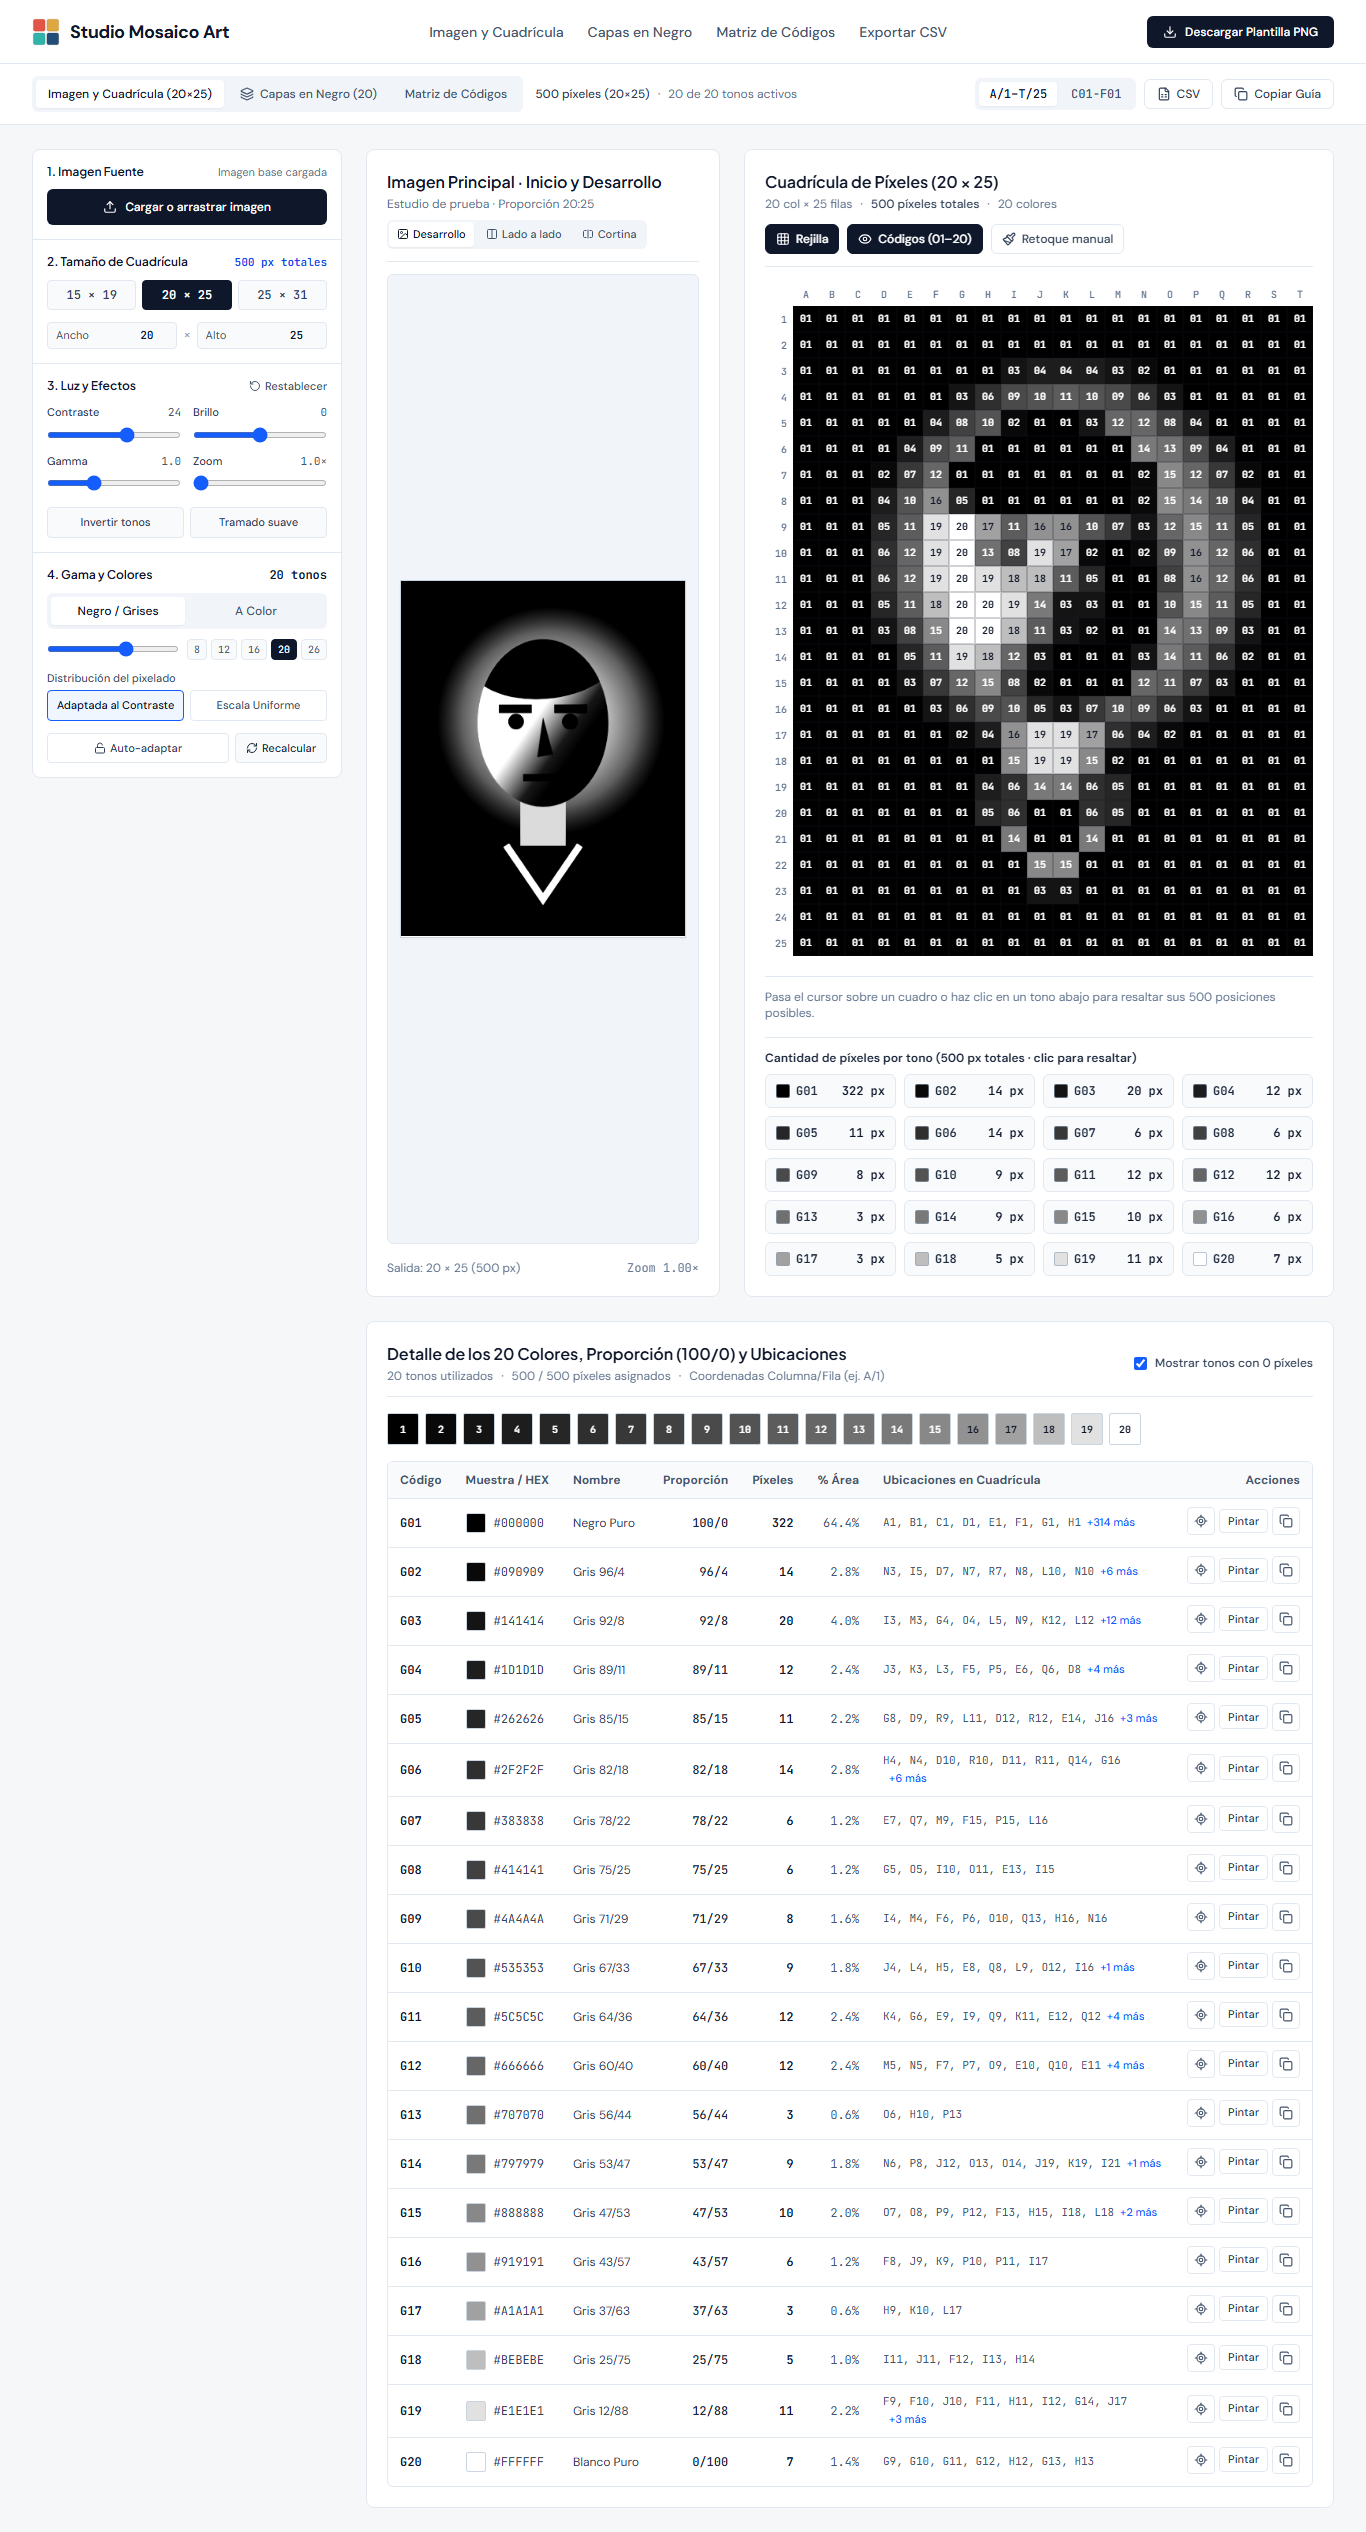
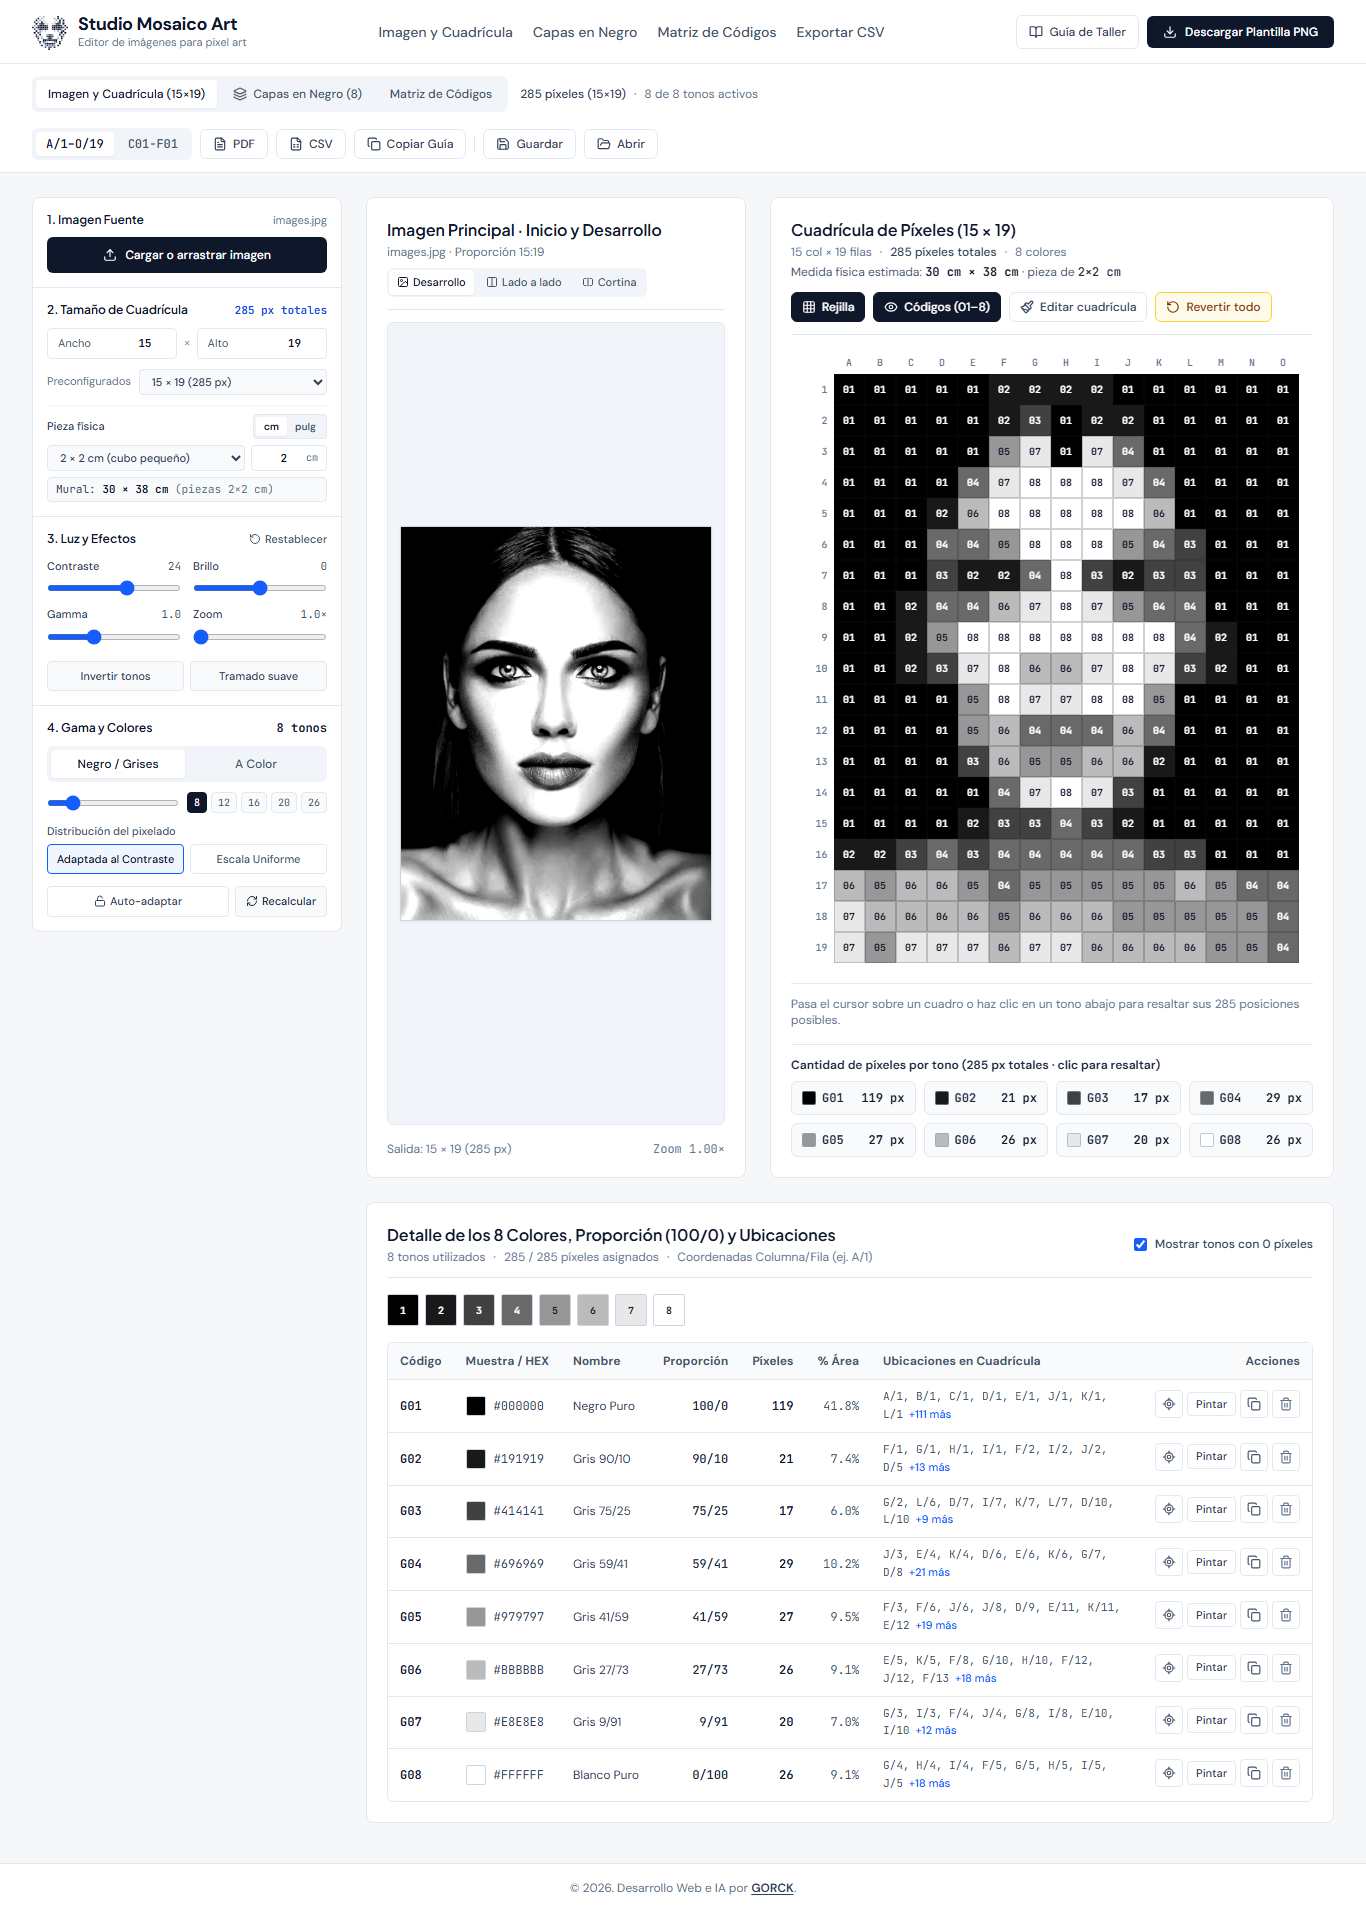
docs: update project description and links in README
Refine the project description to highlight its use as a professional workshop tool for physical pixel art and update the live demo URL.

diff --git a/README.md b/README.md
@@ -1,32 +1,62 @@
 # 🎨 Studio Mosaico Art
 
-**Conversor de imágenes a cuadrículas de píxeles con coordenadas, conteo de piezas y proporciones de tono para murales físicos, carpintería artística, mosaicos y bricolaje.**
+**Editor de imágenes para pixel art físico: convierte cualquier fotografía o ilustración en una plantilla con cuadrícula, coordenadas exactas, conteo de piezas y proporciones de mezcla para murales de madera, mosaicos, Hama/Perler beads y bricolaje.**
 
-🔗 **[Probar la aplicación en vivo aquí](https://github.io)**
+🔗 **[Probar la aplicación en vivo aquí](https://gorck1973.github.io/Studio-Mosaico-Art/)**
 
 ![Vista previa de Studio Mosaico Art](public/preview.png)
 
 ## ✨ ¿Para qué sirve?
-A diferencia de los editores de pixel art tradicionales diseñados solo para pantallas, **Studio Mosaico Art** está pensado para llevar diseños digitales al mundo físico (como murales hechos con cubos de madera de 5×5 cm, mosaicos cerámicos o tejidos).
+A diferencia de los editores de pixel art pensados solo para pantalla, **Studio Mosaico Art** está diseñado como herramienta de taller para llevar diseños digitales al mundo real (murales con cubos de madera, mosaicos cerámicos, teselas, crochet o pixel art con cuentas), entregando medidas físicas reales, cantidades exactas por tono y mapas listos para imprimir.
 
 ## 🛠 Características principales
-- **Control total de resolución:** Define el tamaño exacto de tu cuadrícula (columnas × filas) y calcula las dimensiones físicas finales de tu obra.
-- **Paleta personalizable (Escala de grises y Color):** Ajusta la cantidad exacta de tonos, contraste, brillo, gamma y distribución de tonos.
-- **Tabla de taller y mezcla de pintura:** Obtén el código HEX, la proporción de mezcla (ej. blanco/negro), la cantidad exacta de piezas por tono y sus coordenadas específicas (`A1, B2, C3...`).
+
+- **Cuadrícula libre y calculadora física (`cm` / `pulg`):**
+  - Define libremente **Ancho × Alto** (desde `4 × 4` hasta `40 × 50`) o usa tamaños preconfigurados opcionales.
+  - Configura el tamaño de cada bloque físico en **centímetros (`cm`) o pulgadas (`pulg`)** mediante lista rápida o entrada libre; el tamaño final del mural y de cada pieza se muestra siempre en **`cm`** para evitar errores en el taller.
+- **Lectura inteligente en Color y Escala de Grises:**
+  - Detecta automáticamente si la imagen cargada es a color o blanco y negro.
+  - Incluye **Lectura Inteligente (Color Real)** mediante agrupamiento perceptual en espacio **CIE Lab**, además de **Reemplazar Negro**, **Degradado 2 Colores**, **Degradado 3 Colores** y **Colores Puros**.
+  - Ajustes en tiempo real de contraste, brillo, gamma, zoom/encuadre, inversión de tonos y tramado suave.
+  - Comparación visual **Desarrollo**, **Lado a lado** y **Cortina interactiva**.
+- **Editor de cuadrícula integrado y limpieza de paleta:**
+  - Herramientas prácticas sobre la cuadrícula: **Pintar**, **Relleno** (bote de pintura por área), **Cuentagotas**, **Borrar** (al tono de fondo), **Restaurar** celda original, **Deshacer** paso a paso y **Revertir todo**.
+  - Permite agregar colores personalizados, editar tonos existentes, eliminar tonos redundantes y usar **Limpiar sin uso** para quitar en un clic los tonos con `0` píxeles y renumerar la paleta limpia (`01–N`).
+- **Tabla de taller y coordenadas:**
+  - Calcula código de tono, muestra y código `HEX`, proporción de mezcla (ej. `90/10`) o valores `RGB`, cantidad exacta de piezas, `%` de área y coordenadas en formato **`A/1`** o **`C01-F01`**.
 - **Vistas especializadas de ensamblaje:**
-  - **Imagen y Cuadrícula:** Vista general con rejilla, códigos y herramienta de retoque manual píxel a píxel.
-  - **Capas en Negro:** Aísla cada tono para pintar o clasificar bloques por lotes sin errores.
-  - **Matriz de Códigos:** Mapa técnico limpio ideal para imprimir y llevar al taller.
-- **Exportación lista para imprimir:** Descarga la plantilla completa en **PNG** de alta calidad o exporta todos los datos a una hoja de cálculo **CSV**.
+  - **Imagen y Cuadrícula:** Vista principal con rejilla, códigos superpuestos y conteo rápido por tono.
+  - **Capas en Negro:** Aísla cada tono en blanco y negro para pintar o clasificar bloques por lotes sin confusiones.
+  - **Matriz de Códigos:** Mapa técnico limpio ideal para imprimir y consultar durante el armado.
+- **Exportación lista para imprimir y proyectos guardables:**
+  - Exporta a **PDF** multipágina (plantilla visual + tabla de conteos y coordenadas), **PNG** de alta resolución, **CSV** (hoja de cálculo) o copia la guía completa al portapapeles.
+  - Guarda y reabre tu trabajo completo (imagen, ajustes, paleta personalizada y retoques manuales) en archivos **`.mosaico.json`**, con autoguardado automático en el navegador.
 
 ## 🚀 Cómo usarla en tus proyectos físicos
-1. **Sube una imagen** (idealmente con buen contraste o siluetas icónicas).
-2. **Configura la cuadrícula** según la cantidad de bloques o piezas que tengas disponibles.
-3. **Revisa la tabla de tonos** para preparar tus mezclas de pintura y separar la cantidad exacta de cubos por color.
-4. **Descarga la plantilla PNG o CSV** y ensambla tu obra siguiendo las coordenadas fila por fila.
 
-## 💻 Tecnologías utilizadas
-- React + TypeScript
-- Vite
-- Tailwind CSS
-- Procesamiento de imagen en HTML5 Canvas (100% en el navegador, sin subir tus fotos a servidores externos).
+1. **Sube una imagen:** Arrastra o carga tu foto o ilustración (la app detecta automáticamente si es a color o escala de grises).
+2. **Ajusta cuadrícula y medida física:** Indica las columnas/filas según las piezas disponibles y selecciona el tamaño de tu cubo o tesela (`cm` o `pulg`) para conocer la medida final en `cm`.
+3. **Optimiza luz, gama y edita detalles:** Ajusta contraste/brillo, define el número de tonos y usa **Editar cuadrícula** (pintar, relleno, cuentagotas o limpiar tonos sin uso) para perfeccionar tu diseño.
+4. **Prepara materiales y ensambla:** Consulta la tabla de conteos/proporciones y descarga el **PDF**, **PNG** o **CSV** para armar tu mural coordenada por coordenada.
+
+## 💻 Desarrollo local
+
+```bash
+git clone https://github.com/gorck1973/Studio-Mosaico-Art.git
+cd Studio-Mosaico-Art
+npm install
+npm run dev
+```
+
+Para generar la compilación de producción:
+
+```bash
+npm run build
+```
+
+## 🔒 Privacidad y tecnologías
+- **100% en el navegador:** Todo el procesamiento de imagen, cálculo de paleta y exportación se realiza localmente mediante HTML5 Canvas; tus imágenes nunca se suben a servidores externos.
+- **Stack:** React + TypeScript · Vite · Tailwind CSS · Lucide Icons.
+
+---
+© 2026. Desarrollo Web e IA por [GORCK](https://github.com/gorck1973).
